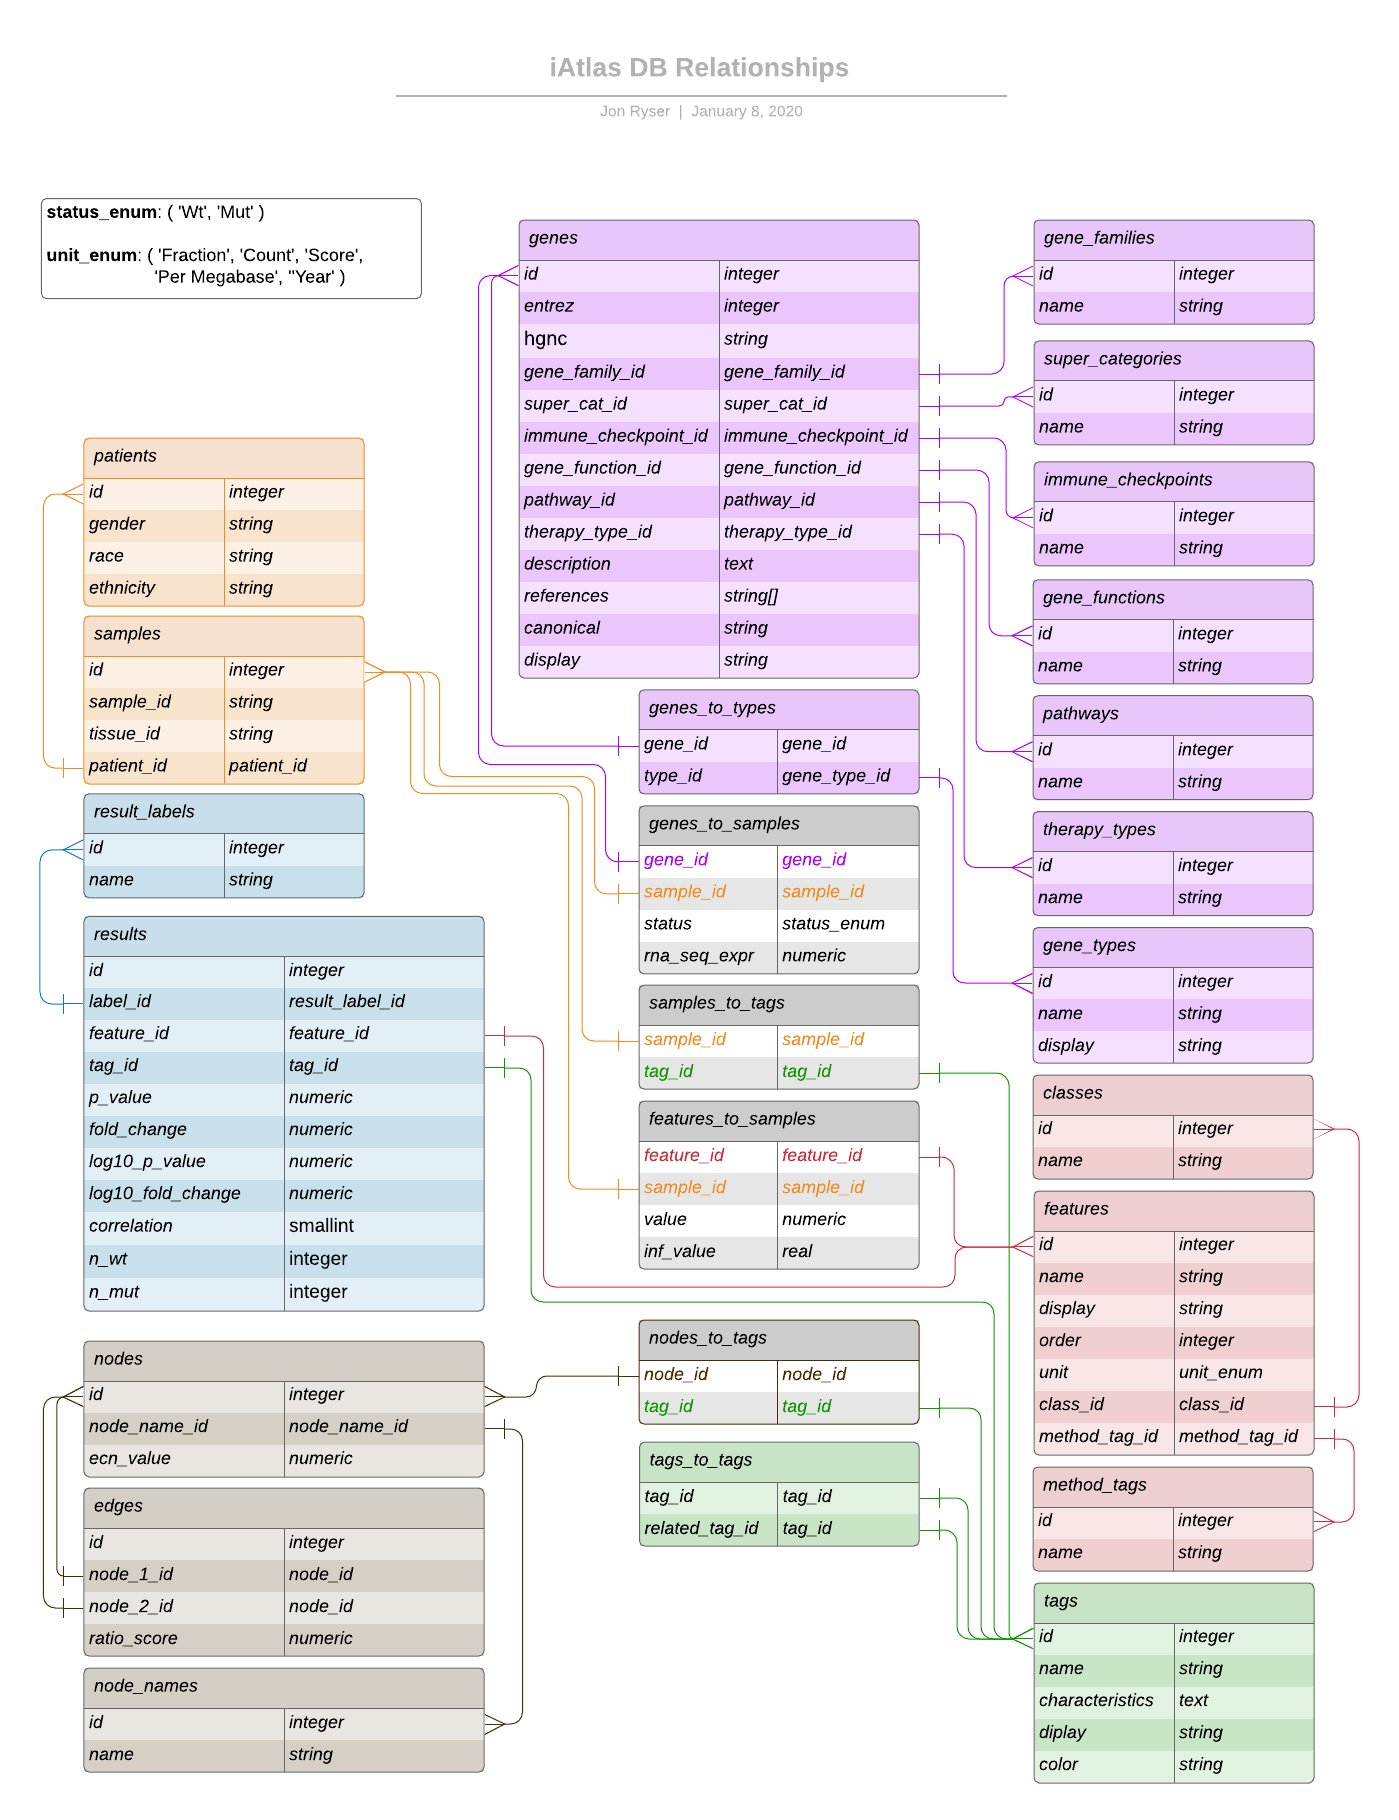
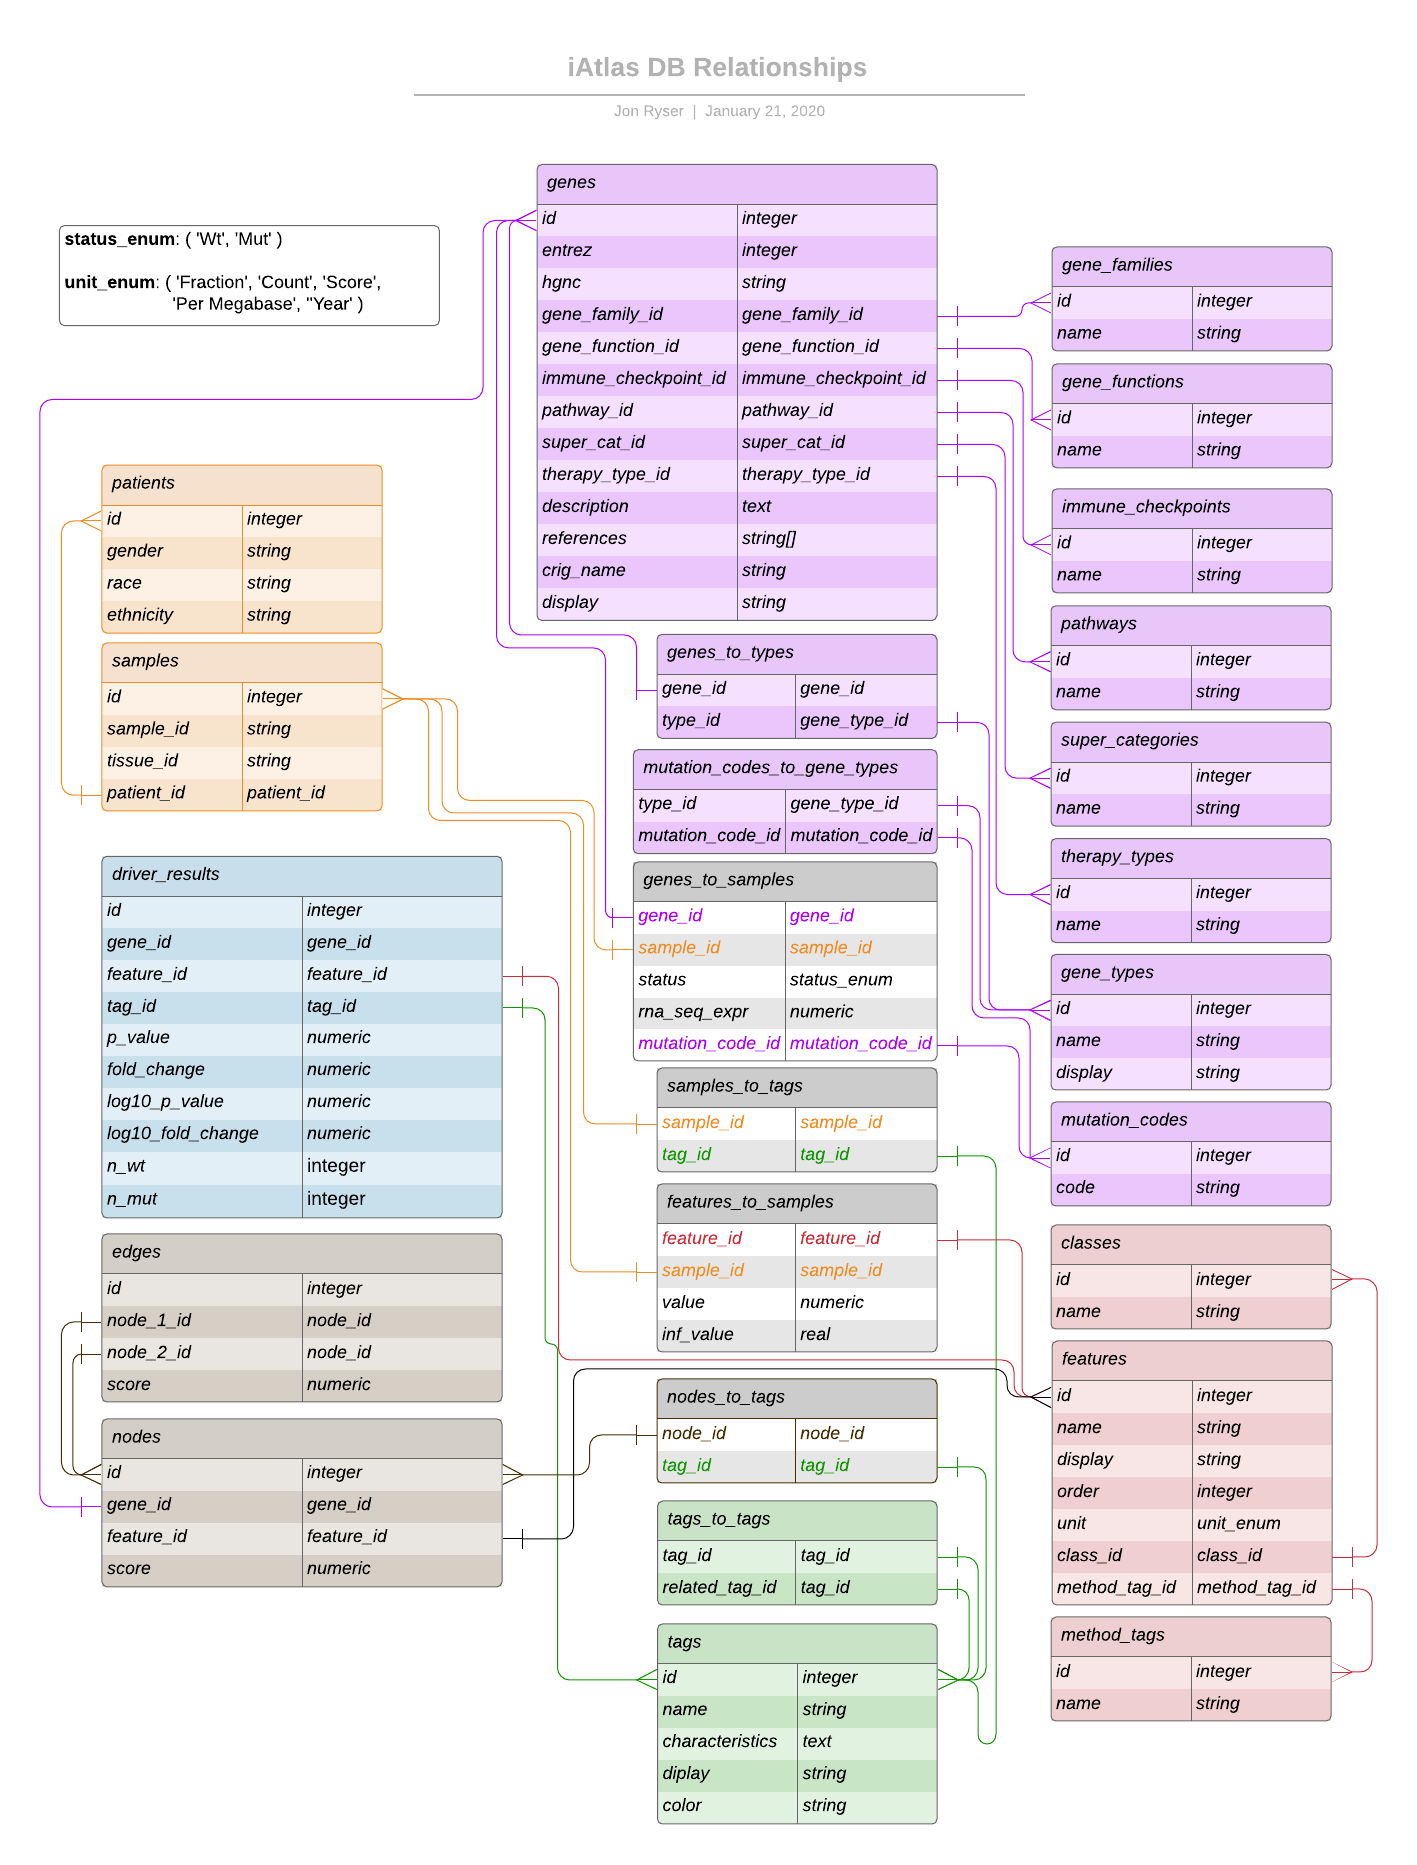
Updated the data model readme to be accurate and updated the data model image to be more accurate.

diff --git a/data_model/README.md b/data_model/README.md
@@ -10,13 +10,13 @@ The database makes use of a couple enumerables. These "enums" are built into the
 
 The available enums are:
 
-- status_enum:
+- ### status_enum:
 
   `( 'Wt', 'Mut' )`
 
   This enum represents the status of a gene. Wt = Wild Type, Mut = Mutant
 
-- unit_enum:
+- ### unit_enum:
 
   `( 'Fraction', 'Count', 'Score', 'Per Megabase', ''Year' )`
 
@@ -50,9 +50,9 @@ The main tables are:
 
   Tags may be used to associate entities. For example, a number of individual samples may be associated with the "TCGA_Study" tag. Further, a number of tags may be with a tag like "TCGA_Study". this allows the entities associated with the initial tags to utlimately be associated with "TCGA_Study" through the initial tags. Instead of thinking of "groups", we can think of tags. This tagging allows us to create groups and hierarchies by association.
 
-- ### results
+- ### driver_results
 
-  Each row describes an individual result.
+  Each row describes an individual driver result.
 
 - ### nodes
 
@@ -72,25 +72,29 @@ The sub tables are:
 
 - ### [Genes](#genes) Sub Tables
 
-  - #### gene_functions
-
-    Each row describes an individual gene function.
-
   - #### gene_families
 
     Each row describes an individual gene family.
+
+  - #### gene_functions
+
+    Each row describes an individual gene function.
 
   - #### gene_types
 
     Each row describes an individual gene type. The current gene types are "immunomodulator", "io_target", "driver_mutation", and "extra_cellular_network".
 
-  - #### pathways
-
-    Each row describes an individual pathway.
-
   - #### immune_checkpoints
 
     Each row describes an individual immune checkpoint.
+
+  - #### mutation_codes
+
+    Each row describes an individual mutation code.
+
+  - #### pathways
+
+    Each row describes an individual pathway.
 
   - #### super_categories
 
@@ -109,12 +113,6 @@ The sub tables are:
   - #### method_tags
 
     Each row describes an individual method tag.
-
-- ### [Results](#results) Sub Tables
-
-  - #### result_labels
-
-    Each row describes an individual result label.
 
 - ### [Nodes](#nodes) Sub Tables
 
@@ -145,6 +143,12 @@ The relational (join) tables are:
   Each row describes a gene to gene type relationship.
 
   For example, "Gene A" may be related to "Type 1". That would be one row. "Gene B" may also be related to "Type 1". That would be an additional row. "Gene A" may also be related to "Type 2". That would be yet again another row, and so on.
+
+- ### mutation_codes_to_gene_types
+
+  Each row describes a mutation code to gene type relationship.
+
+  For example, "Mutation Code A" may be related to "Type 1". That would be one row. "Mutation Code B" may also be related to "Type 1". That would be an additional row. "Mutation Code A" may also be related to "Type 2". That would be yet again another row, and so on.
 
 - ### tags_to_tags
 
@@ -186,25 +190,37 @@ The following are descriptions of each field in each table. This should be exhau
 
   - `hgnc` - The unique HUGO Id (HGNC Symbol) for this gene. (a string)
 
+  - `description` - A text description of the gene. (a string)
+
+  - `friendly_name` - A human friendly name for the gene. (a string)
+
   - `gene_family_id` - The database identifier of the gene family associated with this gene. Relates to the `id` field in a row in the [gene_families](#gene_families) sub table. (an integer)
-
-  - `super_cat_id` - The database identifier of the super category associated with this gene. Relates to the `id` field in a row in the [super_categories](#super_categories) sub table. (an integer)
-
-  - `immune_checkpoint_id` - The database identifier of the immune checkpoint associated with this gene. Relates to the `id` field in a row in the [immune_checkpoints](#immune_checkpoints) sub table. (an integer)
 
   - `gene_function_id` - The database identifier of the gene function associated with this gene. Relates to the `id` field in a row in the [gene_functions](#gene_functions) sub table. (an integer)
 
+  - `immune_checkpoint_id` - The database identifier of the immune checkpoint associated with this gene. Relates to the `id` field in a row in the [immune_checkpoints](#immune_checkpoints) sub table. (an integer)
+
+  - `io_landscape_name` - A string that represents the genes specific io landscape name. (a string)
+
   - `pathway_id` - The database identifier of the pathway associated with this gene. Relates to the `id` field in a row in the [pathways](#pathways) sub table. (an integer)
+
+  - `super_cat_id` - The database identifier of the super category associated with this gene. Relates to the `id` field in a row in the [super_categories](#super_categories) sub table. (an integer)
 
   - `therapy_type_id` - The database identifier of the therapy type associated with this gene. Relates to the `id` field in a row in the [therapy_types](#therapy_types) sub table. (an integer)
 
-  - `description` - A text description of the gene. (a string)
-
   - `references` - An array of URLs related to this gene. (an array of string)
 
-  - `canonical` - A string that may be used for displaying the gene in a header. (a string)
+- [gene_family](#gene_family)
 
-  - `display` - A human friendly name for the gene. (a string)
+  - `id` - A unique database identifier for the specific gene family. This is an integer that is generated by the database. (an integer)
+
+  - `name` - The unique name of the gene family. (a string)
+
+- [gene_function](#gene_function)
+
+  - `id` - A unique database identifier for the specific gene function. This is an integer that is generated by the database. (an integer)
+
+  - `name` - The unique name of the gene function. (a string)
 
 - [gene_types](#gene_types)
 
@@ -220,17 +236,11 @@ The following are descriptions of each field in each table. This should be exhau
 
   - `name` - The unique name of the immune checkpoint. (a string)
 
-- [gene_family](#gene_family)
+- [mutation_codes](#mutation_codes)
 
-  - `id` - A unique database identifier for the specific gene family. This is an integer that is generated by the database. (an integer)
+  - `id` - A unique database identifier for the specific mutation code. This is an integer that is generated by the database. (an integer)
 
-  - `name` - The unique name of the gene family. (a string)
-
-- [gene_function](#gene_function)
-
-  - `id` - A unique database identifier for the specific gene function. This is an integer that is generated by the database. (an integer)
-
-  - `name` - The unique name of the gene function. (a string)
+  - `code` - The unique code of the mutation code. (a string)
 
 - [pathways](#pathways)
 
@@ -256,9 +266,17 @@ The following are descriptions of each field in each table. This should be exhau
 
   - `type_id` - The database identifier of a specific gene type. Relates to the `id` field in a row in the [gene_types](#gene_types) sub table. (an integer)
 
+- [mutation_codes_to_gene_types](#mutation_codes_to_gene_types)
+
+  - `mutation_code_id` - The database identifier of a specific mutation code. Relates to the `id` field in a row in the [mutation_codes](#mutation_codes) sub table. (an integer)
+
+  - `type_id` - The database identifier of a specific gene type. Relates to the `id` field in a row in the [gene_types](#gene_types) sub table. (an integer)
+
 - [patients](#patients)
 
   - `id` - A unique database identifier for the specific patient. This is an integer that is generated by the database. (an integer)
+
+  - `barcode` - The unique barcode identifier assigned for this patient. (a string)
 
   - `ethnicity` - The ethnicity of the patient. (a string)
 
@@ -270,10 +288,12 @@ The following are descriptions of each field in each table. This should be exhau
 
   - `id` - A unique database identifier for the specific sample. This is an integer that is generated by the database. (an integer)
 
-  - `sample_id` - The unique name for the specific sample. (a string)
+  - `sample_id` - The unique name or barcode for the specific sample. (a string)
 
   - `tissue_id` - The unique tissue id for the specific sample. This may be used to access the sample image. (a string)\
     ie: `https://quip1.bmi.stonybrook.edu:443/camicroscope/osdCamicroscope.php?tissueId={tissue_id}`
+
+  - `patient_id` - The unique patient id for the specific sample. Relates to the `id` field in a row in the [patients](#patients) sub table. (an integer)
 
 - [sampless_to_patients](#sampless_to_patients)
 
@@ -287,35 +307,33 @@ The following are descriptions of each field in each table. This should be exhau
 
   - `sample_id` - The database identifier of a specific sample. Relates to the `id` field in a row in the [samples](#samples) main table. (an integer)
 
-- [results](#results)
+  - `mutation_code_id` - The database identifier of a specific mutation code. Relates to the `id` field in a row in the [mutation_codes](#mutation_codes) sub table. (an integer)
 
-  - `id` - A unique database identifier for the specific result. This is an integer that is generated by the database. (an integer)
+  - `status` - The status of the gene in this relationship. May be a value from the [status_enum](#status_enum). (a status_enum)
+
+  - `rna_seq_expr` - The RNA Sequence Expresion of the gene and sample in this relationship. (a numeric value)
+
+- [driver_results](#driver_results)
+
+  - `id` - A unique database identifier for the specific driver result. This is an integer that is generated by the database. (an integer)
+
+  - `gene_id` - The database identifier of a specific gene. Relates to the `id` field in a row in the [genes](#genes) main table. (an integer)
 
   - `feature_id` - The database identifier of a specific feature. Relates to the `id` field in a row in the [features](#features) main table. (an integer)
 
-  - `label_id` - The database identifier of the result label associated with this result. Relates to the `id` field in a row in the [result_labels](#result_labels) sub table. (an integer)
+  - `tag_id` - The database identifier of the specific tag associated with this driver result. Relates to the `id` field in a row in the [tags](#tags) main table. (an integer)
 
-  - `tag_id` - The database identifier of the specific tag associated with this result. Relates to the `id` field in a row in the [tags](#tags) main table. (an integer)
+  - `p_value` - The p value of the driver result. (a numeric value)
 
-  - `p_value` - The p value of the result. (a numeric value)
+  - `log10_p_value` - The log base 10 representation of the p value of the driver result. (a numeric value)
 
-  - `log10_p_value` - The log base 10 representation of the p value of the result. (a numeric value)
+  - `fold_change` - The fold change of the driver result. (a numeric value)
 
-  - `fold_change` - The fold change of the result. (a numeric value)
+  - `log10_p_fold_change` - The log base 10 representation of the fold change of the driver result. (a numeric value)
 
-  - `log10_p_fold_change` - The log base 10 representation of the fold change of the result. (a numeric value)
+  - `n_wt` - The number of wild type genes in the driver result. (an integer)
 
-  - `correlation` - The correlation value of the result. (a smallint)
-
-  - `n_wt` - The number of wild type genes in the result. (an integer)
-
-  - `n_mut` - The number of mutant genes in the result. (an integer)
-
-- [result_labels](#result_labels)
-
-  - `id` - A unique database identifier for the specific result label. This is an integer that is generated by the database. (an integer)
-
-  - `name` - The unique name of the result label. (a string)
+  - `n_mut` - The number of mutant genes in the driver result. (an integer)
 
 - [features](#features)
 
@@ -329,7 +347,7 @@ The following are descriptions of each field in each table. This should be exhau
 
   - `unit` - The priority of the feature. This may be used to display features in order. (a unit_enum)
 
-  - `class_id` - The database identifier of the specific class associated with this feature. Relates to the `id` field in a row in the [classes](#classes) sub table. (an integer)
+  - `class_id` - The database identifier of the specific class associated with this feature. A class may NOT be empty. Relates to the `id` field in a row in the [classes](#classes) sub table. (an integer)
 
   - `method_tag_id` - The database identifier of the specific method tag associated with this feature. Relates to the `id` field in a row in the [method_tags](#method_tags) sub table. (an integer)
 
@@ -365,7 +383,7 @@ The following are descriptions of each field in each table. This should be exhau
 
 - [samples_to_tags](#samples_to_tags)
 
-  - `sample_id` - The database identifier of a specific gene type. Relates to the `id` field in a row in the [samples](#samples) main table. (an integer)
+  - `sample_id` - The database identifier of a specific sample. Relates to the `id` field in a row in the [samples](#samples) main table. (an integer)
 
   - `tag_id` - The database identifier of a specific tag. Relates to the `id` field in a row in the [tags](#tags) main table. (an integer)
 
@@ -375,13 +393,19 @@ The following are descriptions of each field in each table. This should be exhau
 
   - `feature_id` - The database identifier of a specific feature. Relates to the `id` field in a row in the [features](#features) main table. (an integer)
 
+  - `value` - The feature value related to this specific sample. (a numeric value)
+
+  - `inf_value` - If a value (from the "value" column) is infinity (Inf or -Inf), the value is stored in this column. (a real value) This is using an approach similar to [https://stackoverflow.com/a/45603066](https://stackoverflow.com/a/45603066)
+
 - [nodes](#nodes)
 
   - `id` - A unique database identifier for the specific node. This is an integer that is generated by the database. (an integer)
 
-  - `node_name_id` - The database identifier of a specific node name. Relates to the `id` field in a row in the [node_names](#node_names) sub table. (an integer)
+  - `gene_id` - The database identifier of a specific gene. Relates to the `id` field in a row in the [genes](#genes) main table. (an integer)
 
-  - `ecn_value` - The extra cellular network value of the specific node. (an integer)
+  - `feature_id` - The database identifier of a specific feature. Relates to the `id` field in a row in the [features](#features) main table. (an integer)
+
+  - `score` - The score (value) of the specific node. (an integer)
 
 - [nodes_to_tags](#nodes_to_tags)
 
@@ -397,7 +421,7 @@ The following are descriptions of each field in each table. This should be exhau
 
   - `node_2_id` - The database identifier of a specific node. Relates to the `id` field in a row in the [nodes](#nodes) main table. (an integer)
 
-  - `ratio_score` - The relationship value between the two nodes. (an integer)
+  - `score` - The relationship value between the two nodes. (an integer)
 
 ## Data Structure
 
